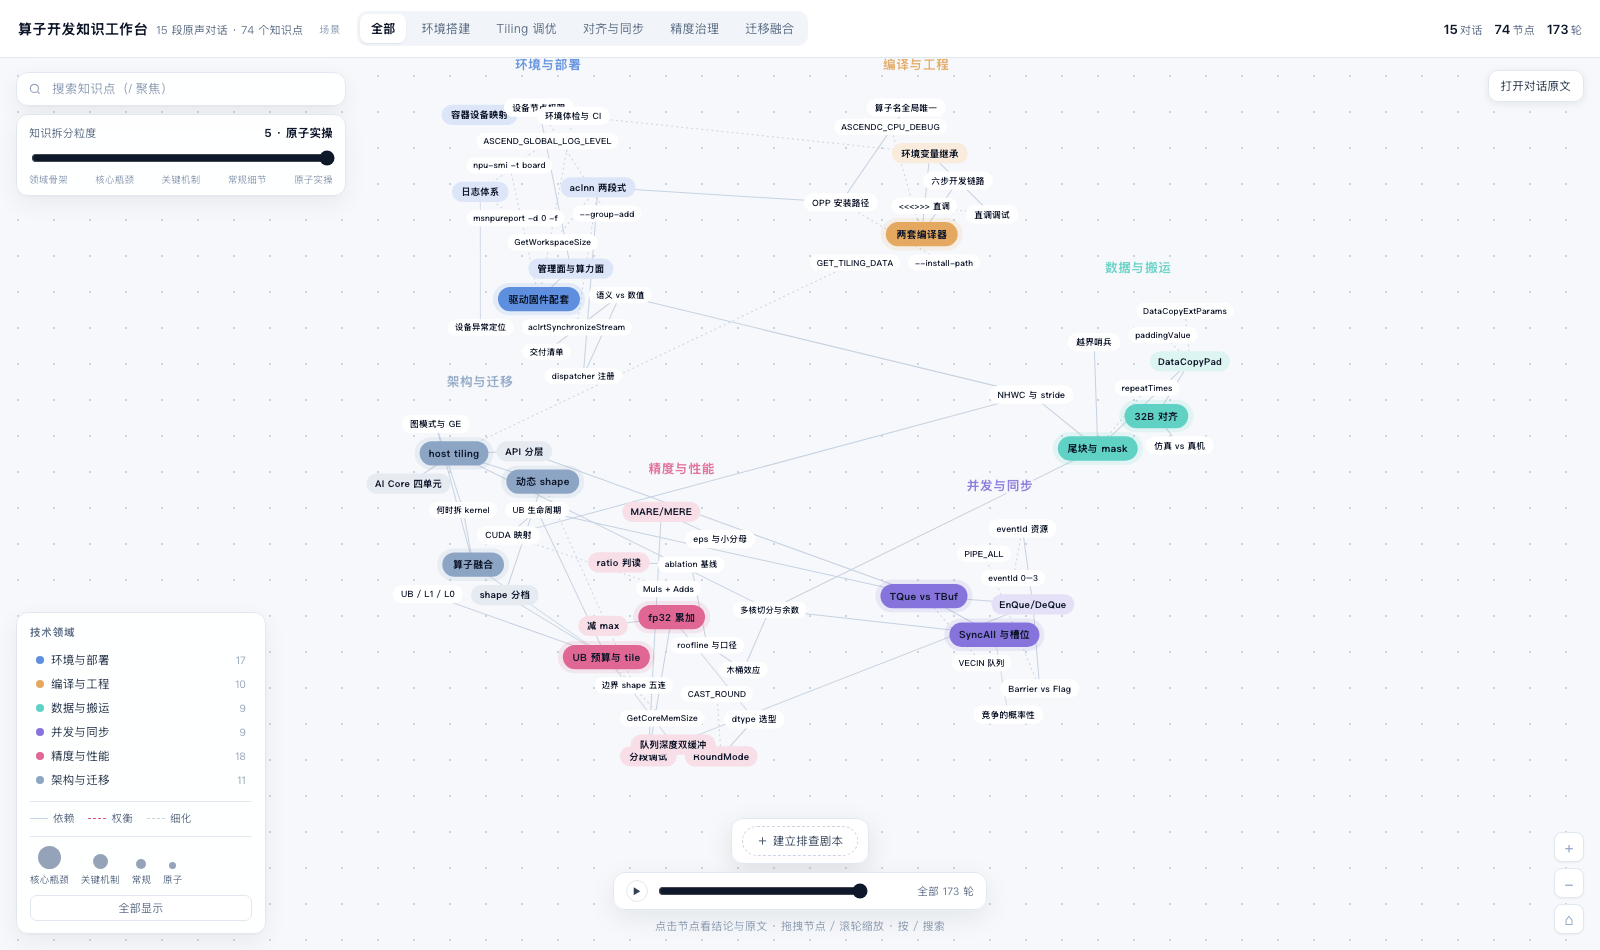
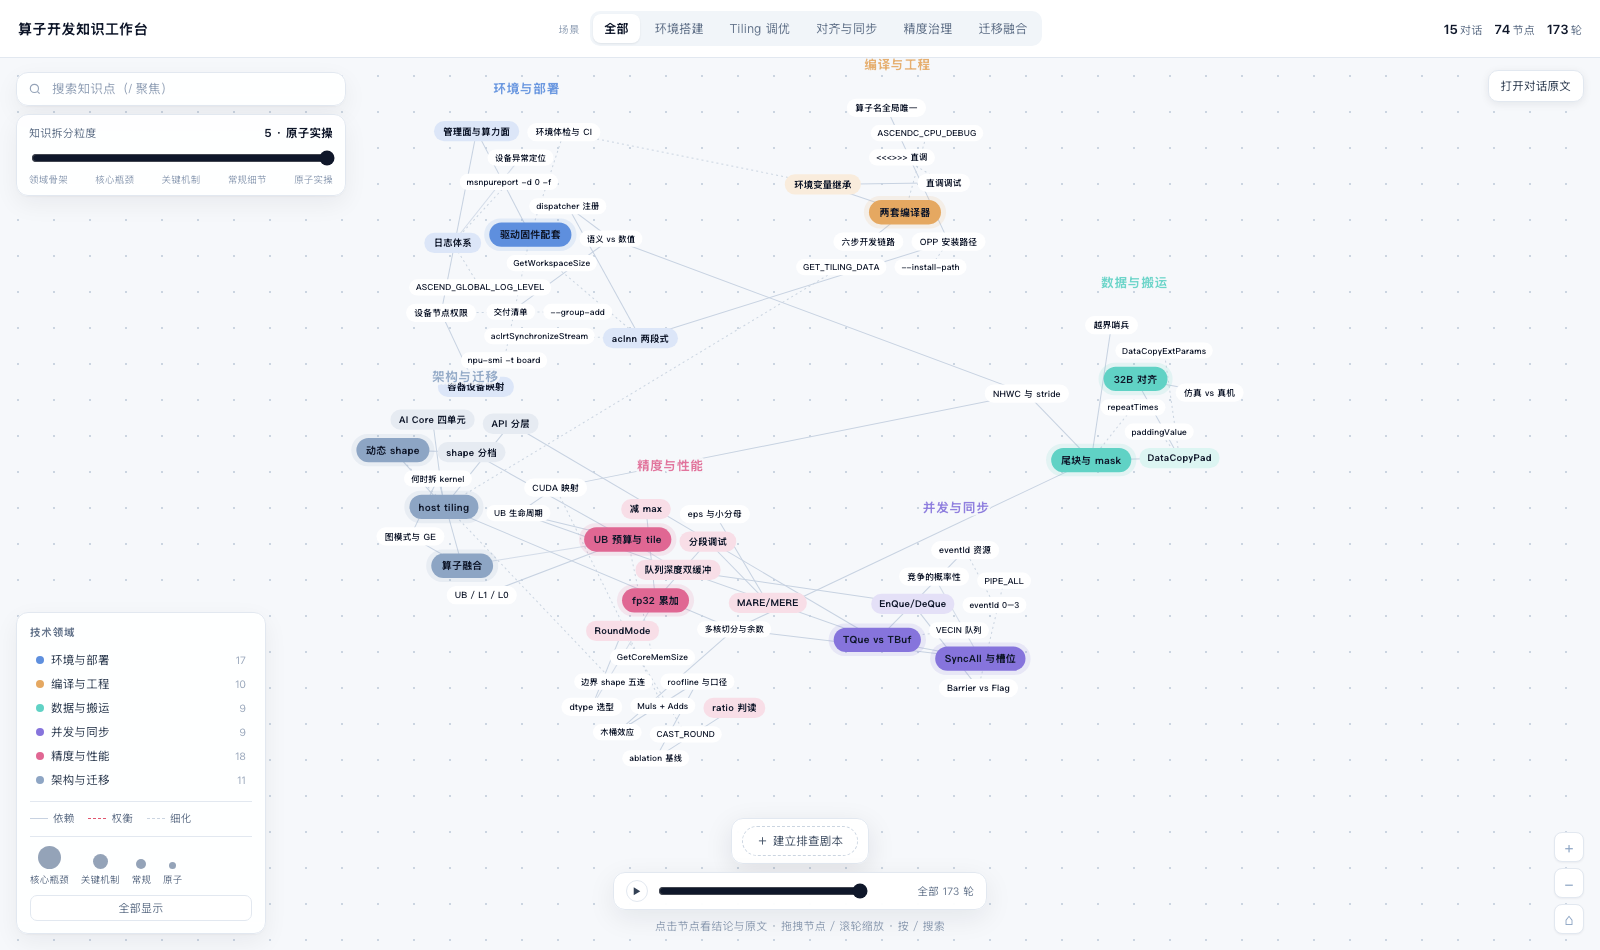
style(topbar): 去掉重复数量副标题，场景 tab 居中

diff --git a/cann-dashboard/算子知识工作台.html b/cann-dashboard/算子知识工作台.html
@@ -19,17 +19,18 @@
   button{font-family:inherit}
 
   /* ---------- top bar ---------- */
-  .topbar{height:58px;display:flex;align-items:center;gap:16px;padding:0 18px;background:var(--card);
+  .topbar{height:58px;display:grid;grid-template-columns:1fr auto 1fr;align-items:center;gap:16px;padding:0 18px;background:var(--card);
     border-bottom:1px solid var(--line);position:relative;z-index:30}
   .brand{display:flex;align-items:baseline;gap:8px;flex:0 0 auto}
   .brand b{font-size:14px;letter-spacing:.2px}
   .brand span{font-size:11px;color:var(--ink2)}
+  .scenebar{display:flex;align-items:center;gap:10px;justify-self:center;min-width:0}
   .scenes-tag{flex:0 0 auto;font-size:10px;color:#94A3B8;letter-spacing:.6px}
   .scenes{display:flex;gap:4px;background:#F1F5F9;border-radius:10px;padding:3px;overflow-x:auto;flex:0 1 auto;max-width:72vw}
   .scenes button{border:0;background:transparent;color:var(--ink2);font-size:12px;padding:6px 11px;
     border-radius:8px;cursor:pointer;white-space:nowrap}
   .scenes button.on{background:#fff;color:var(--ink);font-weight:600;box-shadow:0 1px 2px rgba(15,23,42,.08)}
-  .stats{display:flex;gap:12px;flex:0 0 auto;margin-left:auto}
+  .stats{display:flex;gap:12px;flex:0 0 auto;justify-self:end}
   .stat{font-size:11px;color:var(--ink2)}
   .stat i{font-style:normal;font-weight:700;color:var(--ink);font-size:13px;margin-right:2px}
 
@@ -273,9 +274,11 @@
 <body>
 
 <header class="topbar">
-  <div class="brand"><b>算子开发知识工作台</b><span id="brandSub">15 段原声对话 · 54 个知识点</span></div>
-  <span class="scenes-tag">场景</span>
-  <div class="scenes" id="scenes"></div>
+  <div class="brand"><b>算子开发知识工作台</b></div>
+  <div class="scenebar">
+    <span class="scenes-tag">场景</span>
+    <div class="scenes" id="scenes"></div>
+  </div>
   <div class="stats" id="stats"></div>
 </header>
 
